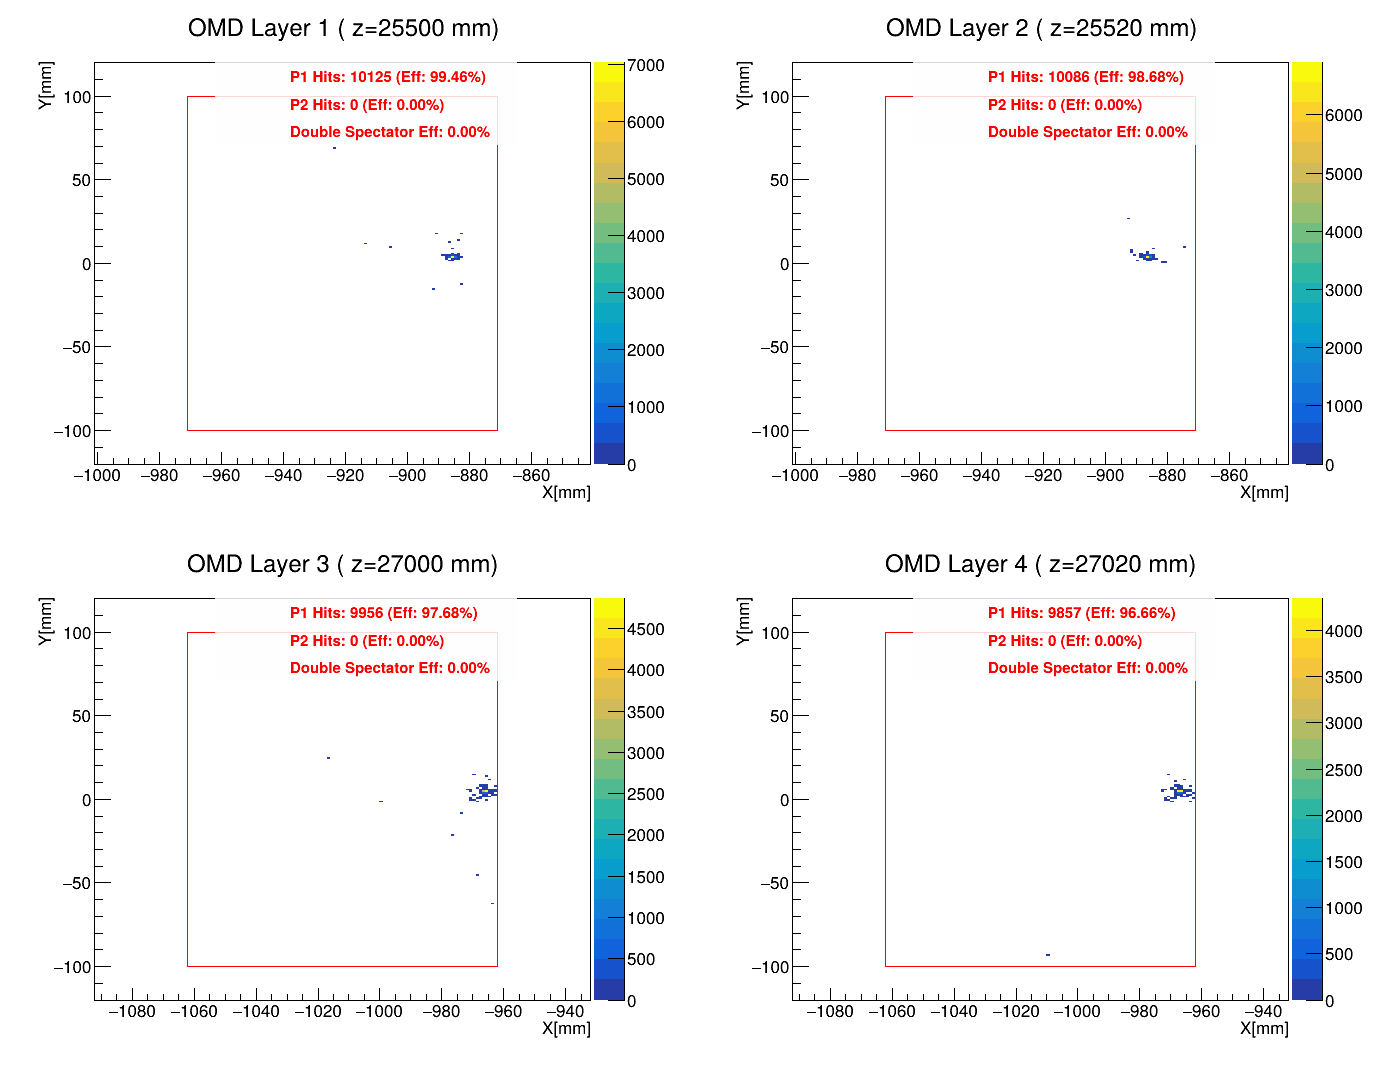
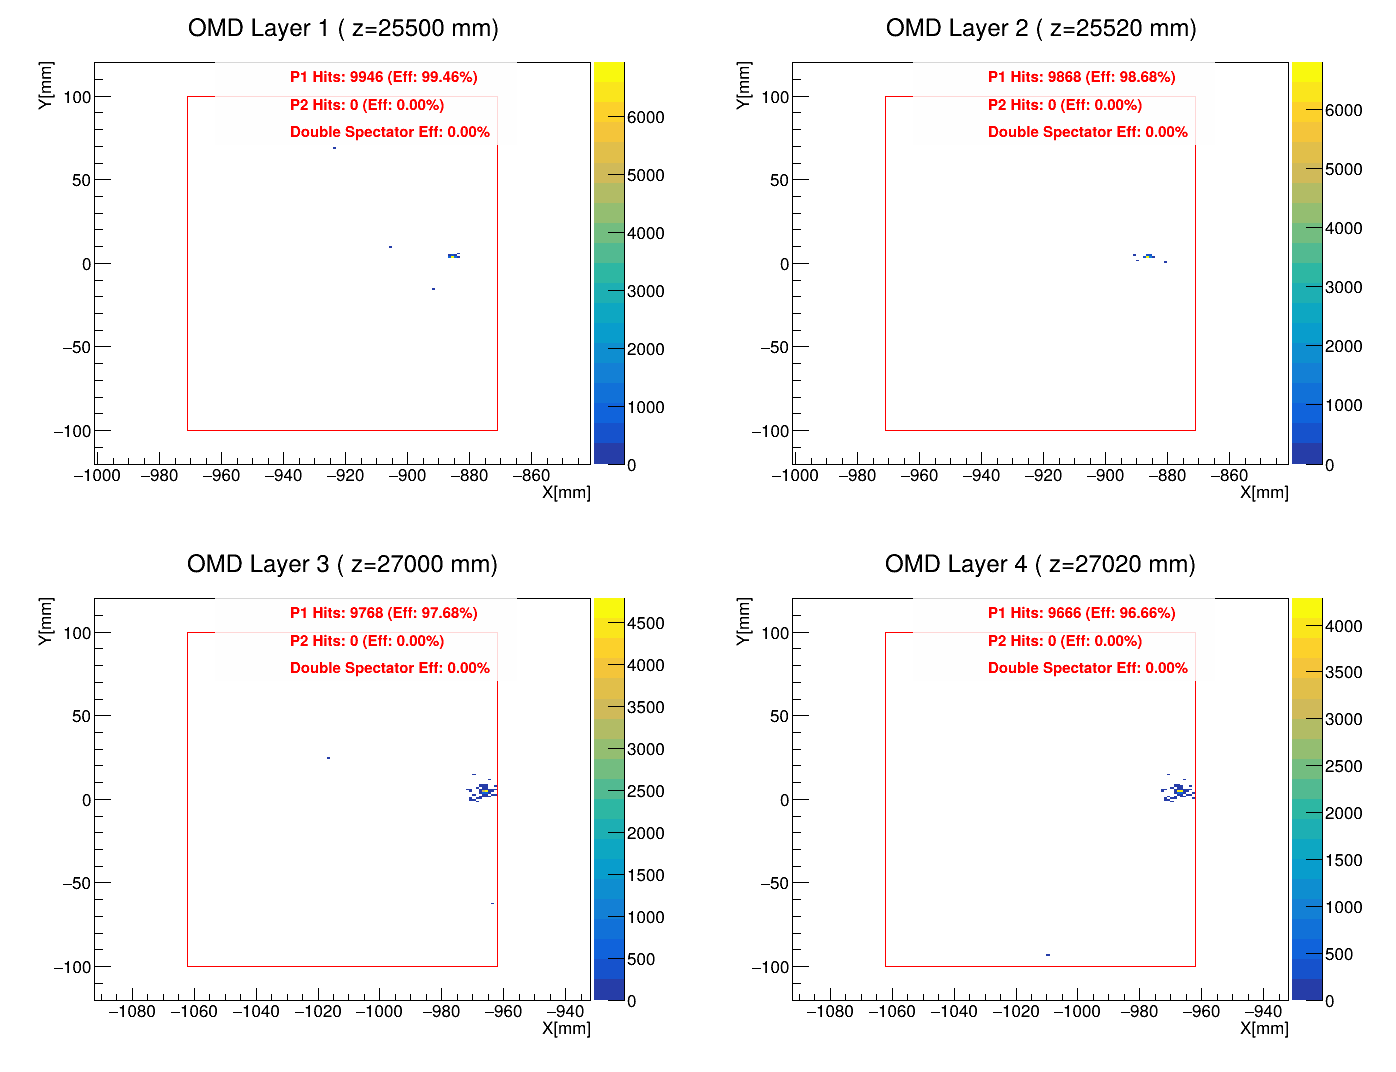
in OMD instead using all hits use ak.first to get the one hit per proton generated

diff --git a/Plotting/double_spec_d2_OMD_det_layer.py b/Plotting/double_spec_d2_OMD_det_layer.py
@@ -124,7 +124,7 @@ for f_idx, filename in enumerate(file_list):
     mc_indices     = ak.local_index(mc_pdg)
     p_indices      = mc_indices[is_spectator_p]
 
-    has_two_protons = ak.num(p_indices) >= 2
+    has_two_protons = ak.num(p_indices) >= 1
     n_double_gen    = int(ak.sum(has_two_protons))
     total_double_spectator_events += n_double_gen
 
@@ -170,19 +170,25 @@ for f_idx, filename in enumerate(file_list):
         p1_any_station = p1_any_station | ev_has_p1
         p2_any_station = p2_any_station | ev_has_p2
 
-        x_p1 = ak.to_numpy(ak.flatten(hit_x[m_p1])).astype(np.float64)
-        y_p1 = ak.to_numpy(ak.flatten(hit_y[m_p1])).astype(np.float64)
-        if len(x_p1):
-            w1 = np.ones(len(x_p1), dtype=np.float64)
-            h_xy_p1[i].FillN(len(x_p1), x_p1, y_p1, w1)
-            h_xy_both[i].FillN(len(x_p1), x_p1, y_p1, w1)
+        x_p1_first = hit_x[m_p1]
+        y_p1_first = hit_y[m_p1]
+        x_p1_arr = ak.to_numpy(ak.drop_none(ak.firsts(x_p1_first))).astype(np.float64)
+        y_p1_arr = ak.to_numpy(ak.drop_none(ak.firsts(y_p1_first))).astype(np.float64)
 
-        x_p2 = ak.to_numpy(ak.flatten(hit_x[m_p2])).astype(np.float64)
-        y_p2 = ak.to_numpy(ak.flatten(hit_y[m_p2])).astype(np.float64)
-        if len(x_p2):
-            w2 = np.ones(len(x_p2), dtype=np.float64)
-            h_xy_p2[i].FillN(len(x_p2), x_p2, y_p2, w2)
-            h_xy_both[i].FillN(len(x_p2), x_p2, y_p2, w2)
+        if len(x_p1_arr):
+            w1 = np.ones(len(x_p1_arr), dtype=np.float64)
+            h_xy_p1[i].FillN(len(x_p1_arr), x_p1_arr, y_p1_arr, w1)
+            h_xy_both[i].FillN(len(x_p1_arr), x_p1_arr, y_p1_arr, w1)
+        
+
+        x_p2_first = hit_x[m_p2]
+        y_p2_first = hit_y[m_p2]
+        x_p2_arr = ak.to_numpy(ak.drop_none(ak.firsts(x_p2_first))).astype(np.float64)
+        y_p2_arr = ak.to_numpy(ak.drop_none(ak.firsts(y_p2_first))).astype(np.float64)
+        if len(x_p2_arr):
+            w2 = np.ones(len(x_p2_arr), dtype=np.float64)
+            h_xy_p2[i].FillN(len(x_p2_arr), x_p2_arr, y_p2_arr, w2)
+            h_xy_both[i].FillN(len(x_p2_arr), x_p2_arr, y_p2_arr, w2)
 
     ev_coin_all4 = (
         both_detected_per_station[0] &
